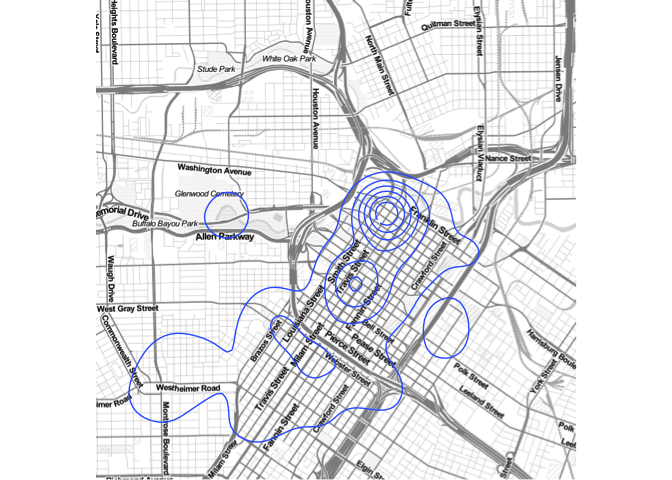
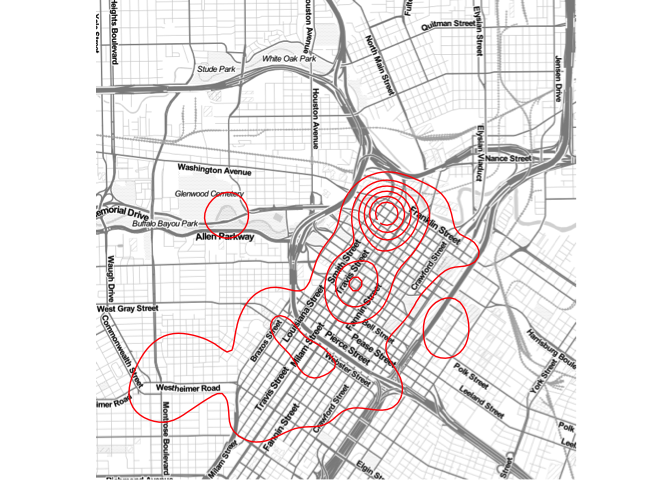
color fix on readme density example

diff --git a/README.md b/README.md
@@ -41,7 +41,7 @@ qmplot(lon, lat, data = downtown, maptype = "toner-background", color = I("red")
 ![](README-qmplot-1.png)
 
 ``` {.r}
-qmplot(lon, lat, data = downtown, maptype = "toner-lite", geom = "density2d")
+qmplot(lon, lat, data = downtown, maptype = "toner-lite", geom = "density2d", color = I("red"))
 ```
 
 ![](README-qmplot-2.png)
